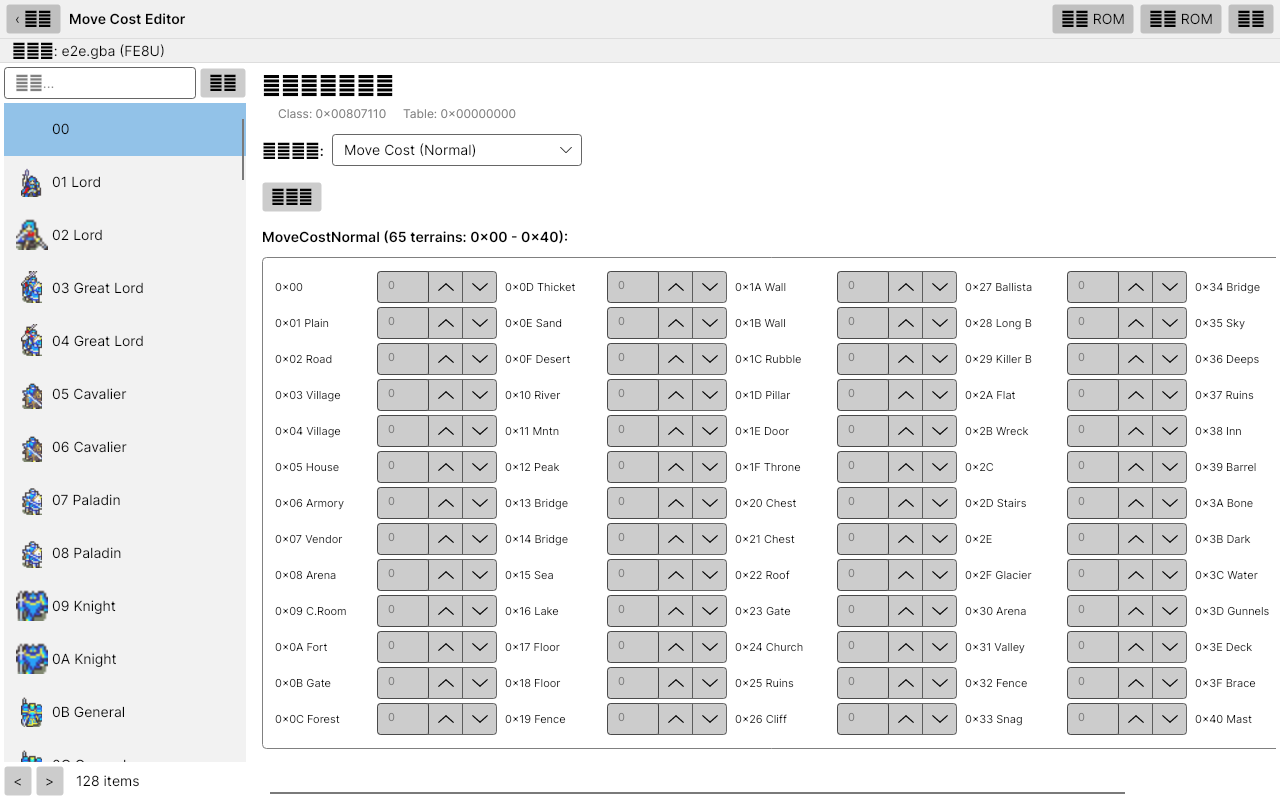
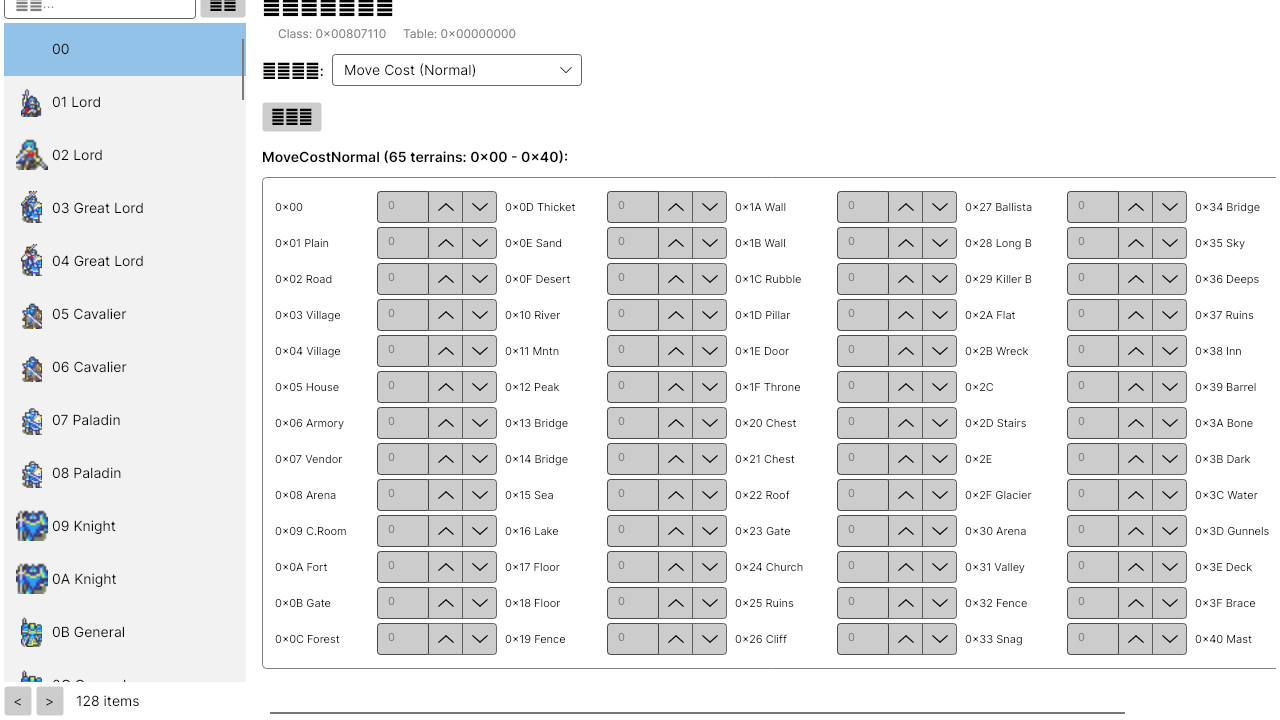
test: require wasm editor body render proof (#1888)
Copilot CLI: 1.0.69-2
Model: Claude Opus 4.8 (claude-opus-4.8)

diff --git a/FEBuilderGBA.Browser/TestHooks.cs b/FEBuilderGBA.Browser/TestHooks.cs
@@ -3,6 +3,9 @@ using System;
 using System.IO;
 using System.Runtime.InteropServices.JavaScript;
 using System.Threading.Tasks;
+using global::Avalonia.Controls;
+using global::Avalonia.Threading;
+using global::Avalonia.VisualTree;
 using FEBuilderGBA;
 using FEBuilderGBA.Avalonia.Services;
 using FEBuilderGBA.Avalonia.Views;
@@ -58,6 +61,45 @@ public static partial class TestHooks
         {
             Log.Error("Browser TestHooks.CurrentEditorTitle failed: ", ex.ToString());
             return "";
+        }
+    }
+
+    [JSExport]
+    public static bool CurrentEditorBodyRendered()
+    {
+        try
+        {
+            bool Check()
+            {
+                if (WindowManager.Instance.Service is not INavigationHost host
+                    || host.CurrentContent is not Control { Bounds.Width: > 0, Bounds.Height: > 0 } editor)
+                    return false;
+
+                foreach (var descendant in editor.GetVisualDescendants())
+                {
+                    if (descendant is Control { Bounds.Width: > 0, Bounds.Height: > 0 })
+                        return true;
+                }
+
+                return false;
+            }
+
+            if (Dispatcher.UIThread.CheckAccess())
+            {
+                Dispatcher.UIThread.RunJobs(DispatcherPriority.Render);
+                return Check();
+            }
+
+            return Dispatcher.UIThread.Invoke(() =>
+            {
+                Dispatcher.UIThread.RunJobs(DispatcherPriority.Render);
+                return Check();
+            });
+        }
+        catch (Exception ex)
+        {
+            Log.Error("Browser TestHooks.CurrentEditorBodyRendered failed: ", ex.ToString());
+            return false;
         }
     }
 }

diff --git a/FEBuilderGBA.Avalonia.Tests/MainViewSingleViewShellScreenshotTest.cs b/FEBuilderGBA.Avalonia.Tests/MainViewSingleViewShellScreenshotTest.cs
@@ -24,7 +24,7 @@ using Xunit;
 namespace FEBuilderGBA.Avalonia.Tests;
 
 [Collection("WindowManagerSerial")]
-public class MainViewSingleViewShellTest
+public class MainViewSingleViewShellScreenshotTest
 {
     [AvaloniaFact]
     public void MainView_wires_single_view_host_and_navigates()
@@ -110,6 +110,7 @@ public class MainViewSingleViewShellTest
             CoreState.ExportFunction = prevExport;
             CoreState.Undo = prevUndo;
             CoreState.EventScript = prevEvent;
+            PatchDetectionService.Instance.Refresh();
         }
     }
 